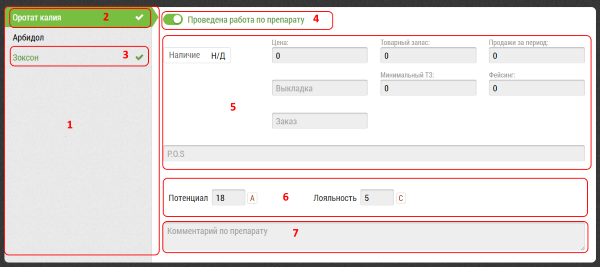
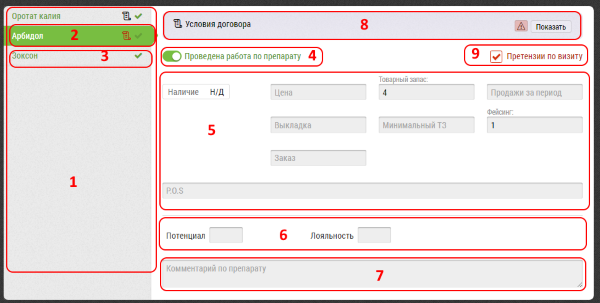
[fix] Статистика и окно итогов визита

diff --git a/src/guide/reports-visits-visit.md b/src/guide/reports-visits-visit.md
@@ -19,9 +19,9 @@
 - кнопка "Геолокация" `5` предназначена для просмотра визитов дня на карте
 - название объекта или субъекта предназначено для перехода к просмотру/редактированию этого объекта/субъекта
 - строка визита `7` содержит основную информацию о визите. 
-По нажатию на строку раскрывается информация о целях визита `8` и итогах визита `9`
+По нажатию на строку раскрывается информация о целях визита `8` итогах визита `9` и претензиях по визиту `14`
 - расшифровка обозначений иконок `10` в том числе:
 
    - визит запланирован `11`
-   - состоялся `12` причем уже в 4-й раз
-   - не состоялся `13` по причине "Болезнь" 
+   - состоялся `12` причем уже в 8-й раз
+   - не состоялся `13` по причине "Отпуск" 

diff --git a/src/guide/rep-visits-object.md b/src/guide/rep-visits-object.md
@@ -14,5 +14,7 @@
 6. Показатели потенциала - лояльности по препарату - имеют как цифровое, так и буквенное обозначения соответствующее диапазону (настраивается администратором)
 7. Комментарий по конкретному препарату - 
 **не путать с комментарием по визиту в целом**
+8. [Условия договора](database-object-contract.md) (если по аптеке и препарату есть договор). Также отображается значок напротив препарата `1`
+9. Галочка "Претензии по визиту" 
 
 > Чтобы закрыть визит необходимо провести работу хотя бы по одному препарату.
